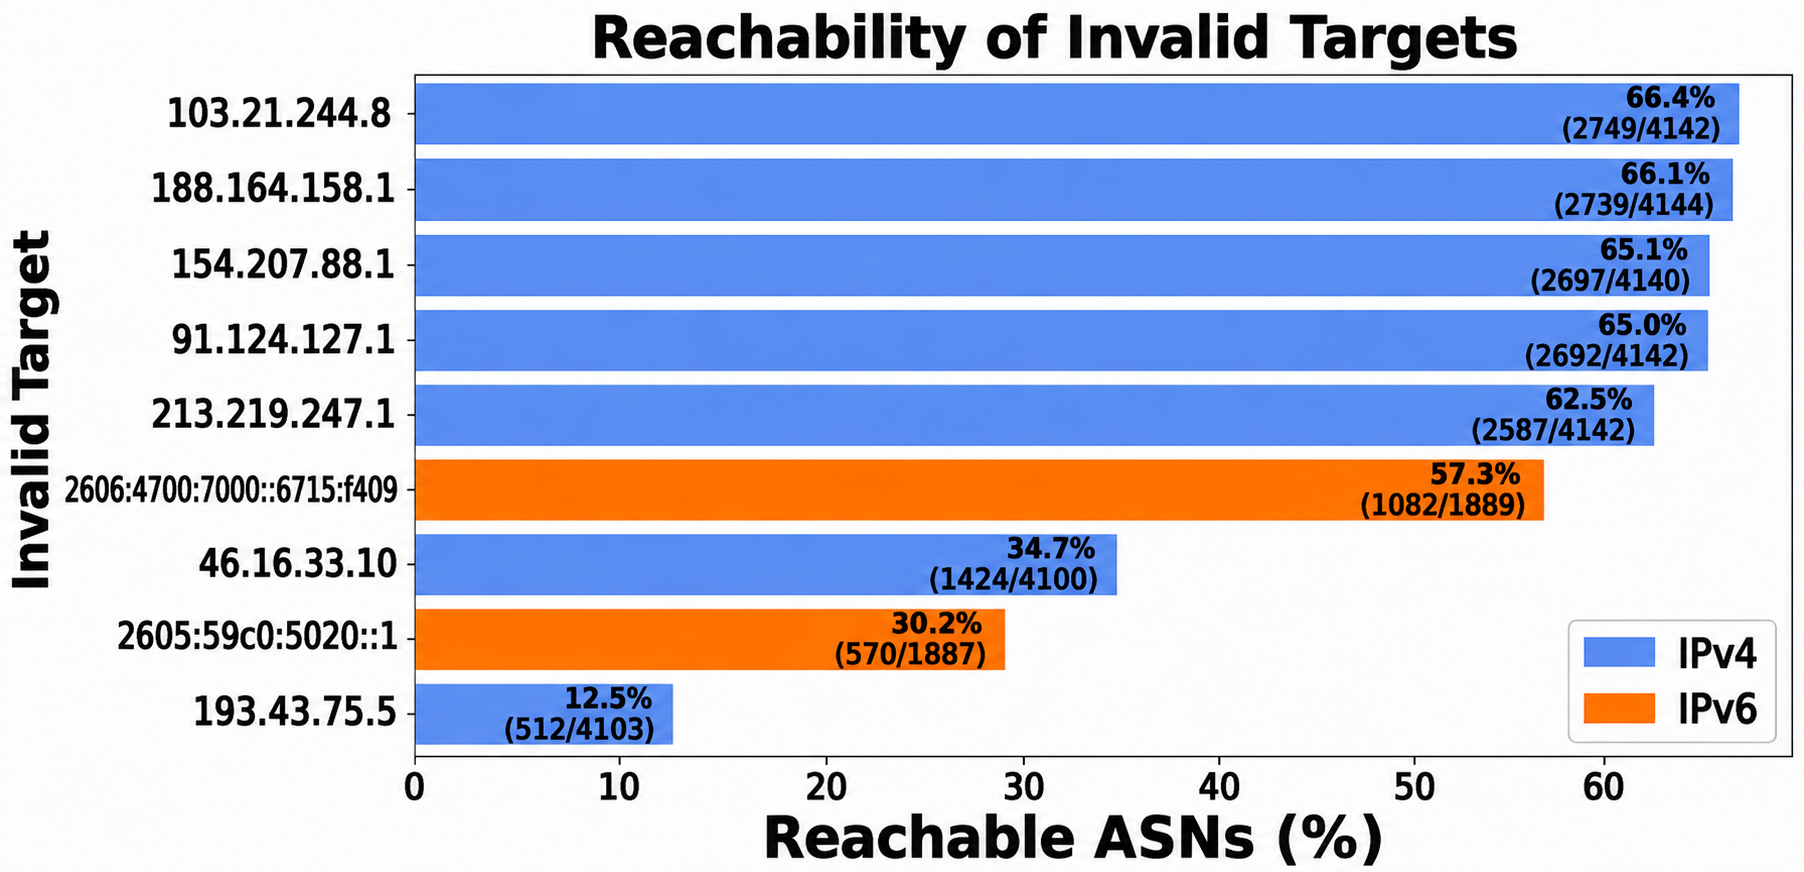
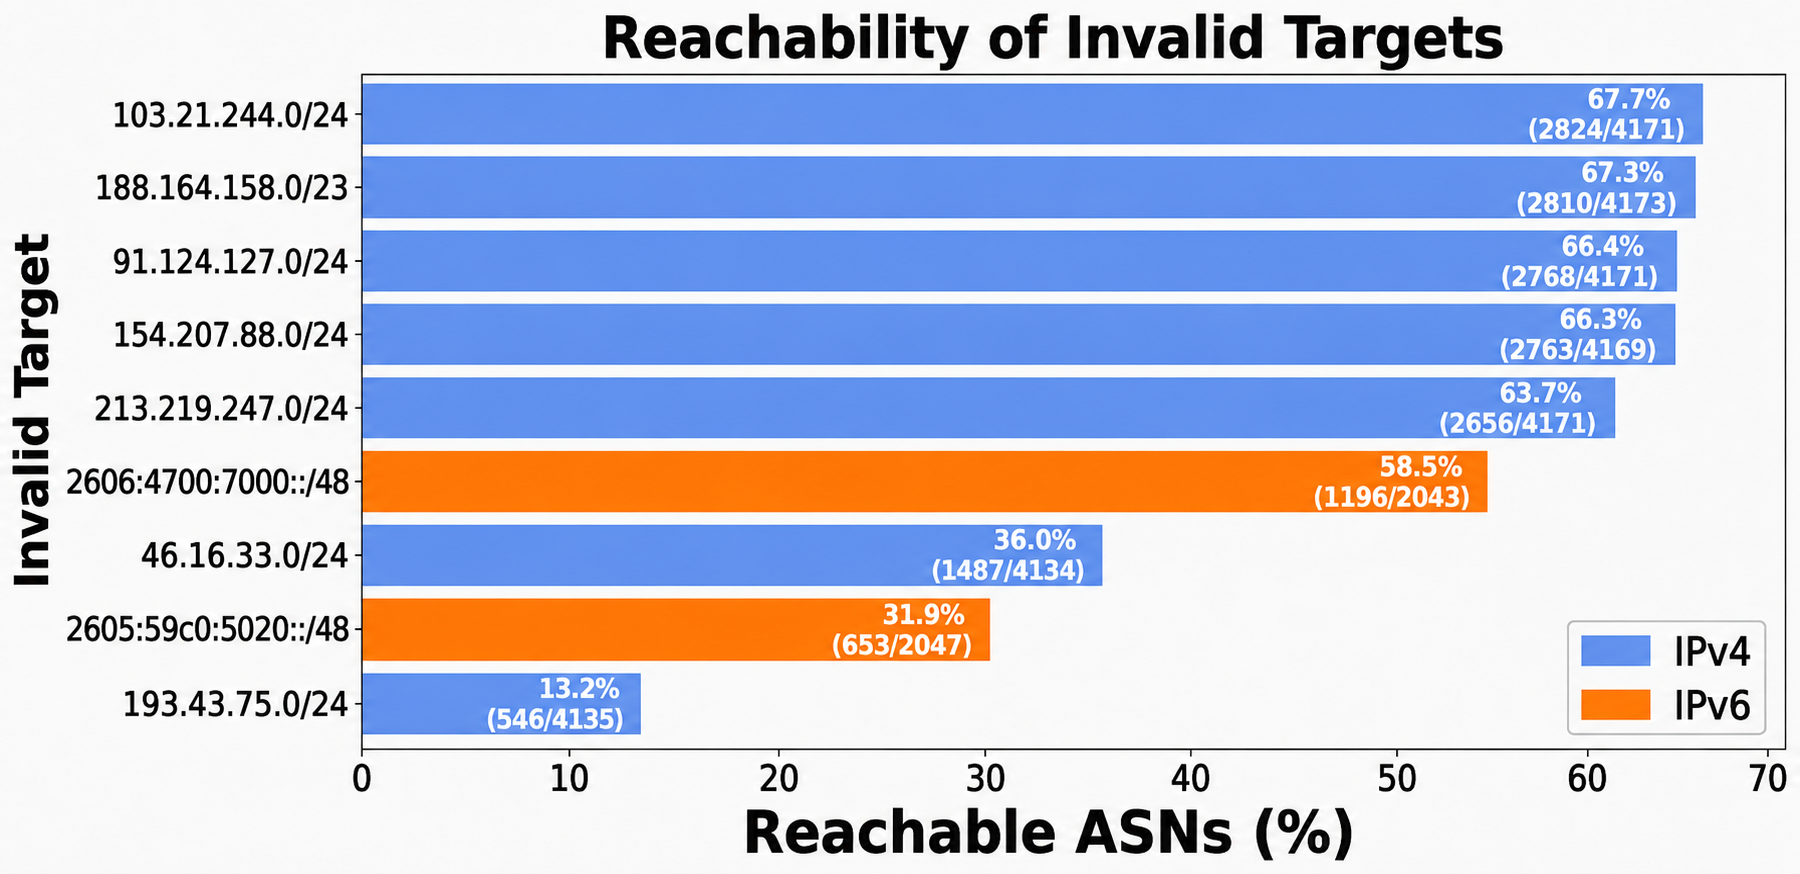
paper

Changed region(s): [[0.0, 0.0, 0.9956, 0.9908]]

diff --git a/hotnets26/hotnets26.tex b/hotnets26/hotnets26.tex
@@ -71,17 +71,17 @@ We define a \emph{measurement-aware network} as a network that can recognize mea
 
 Measurement-aware behavior introduces a new source of bias into Internet observatories by making the measurement process itself part of the system being optimized against. As a result, observed behavior may reflect a network's response to the measurement infrastructure rather than the underlying property the measurement seeks to characterize.
 
-\subsection{Threat Model}
+\subsection{Strategic Behavior Model}
 
-We consider an adversary that is a network operator (or Autonomous System) seeking to influence measurements targeting its network.
+We consider a network operator (or Autonomous System) seeking to influence measurements targeting its network in order to obtain favorable outcomes in reputation systems, compliance frameworks, or public observatories.
 
-\textbf{Adversary knowledge.} The adversary has access only to information that is publicly available or externally observable, including measurement infrastructure addresses, probe locations, published methodologies, and traffic characteristics associated with measurement campaigns. No privileged access to measurement platforms or researchers' systems is assumed.
+\textbf{Operator knowledge.} The operator has access only to information that is publicly available or externally observable, including measurement infrastructure addresses, probe locations, published methodologies, and traffic characteristics associated with measurement campaigns. No privileged access to measurement platforms or researchers' systems is assumed.
 
-\textbf{Adversary capabilities.} The adversary can distinguish measurement traffic from ordinary traffic and apply different policies to the two classes. Such policies may include selectively filtering routes, modifying forwarding behavior, prioritizing traffic, or altering reachability outcomes.
+\textbf{Operator capabilities.} The operator can distinguish measurement traffic from ordinary traffic and apply different policies to the two classes. Such policies may include selectively filtering routes, modifying forwarding behavior, prioritizing traffic, or altering reachability outcomes.
 
-\textbf{Adversary goal.} The adversary aims to obtain favorable measurement results without uniformly deploying the corresponding mechanisms throughout its network. To achieve this objective, it selectively applies the desired behavior only to traffic identified as belonging to a measurement campaign, causing the observatory to infer properties that do not necessarily reflect normal network operation.
+\textbf{Operator objective.} The operator aims to obtain favorable measurement results without uniformly deploying the corresponding mechanisms throughout its network. To achieve this objective, it selectively applies the desired behavior only to traffic identified as belonging to a measurement campaign, causing the observatory to infer properties that do not necessarily reflect normal network operation.
 
-This threat model requires neither insider knowledge nor specialized capabilities. Identifying traffic classes and applying differentiated policies are common operational practices in modern networks, making measurement-aware behavior feasible using existing mechanisms.
+This model requires neither insider knowledge nor specialized capabilities. Identifying traffic classes and applying differentiated policies are common operational practices in modern networks, making measurement-aware behavior feasible using existing mechanisms.
 
 \begin{figure*}[t]
 \centering
@@ -113,7 +113,7 @@ The specific realization of public and shadow targets depends on the measurement
 \begin{figure}[t]
 \centering
 \includegraphics[width=\linewidth]{./figures/reachability.png}
-\caption{Reachability of RPKI-invalid test prefixes from unique source ASes. Reachability varies substantially across prefixes, ranging from 12\% to 66\%. The large differences in coverage motivate the need for careful target selection when designing ROV measurements and selecting public and shadow targets.}
+\caption{Reachability of RPKI-invalid test prefixes from unique source ASes. Reachability varies substantially across prefixes, ranging from 13\% to 67\%. The large differences in coverage motivate the need for careful target selection when designing ROV measurements and selecting public and shadow targets.}
 \label{fig:invalid_prefix_visibility}
 \end{figure}
 
@@ -127,7 +127,7 @@ Recent systems such as RScope ~\cite{rscope} have substantially improved the acc
 
 ROV therefore provides a natural case study for measurement awareness. A network seeking favorable ROV scores could selectively filter well-known invalid prefixes while continuing to accept equivalent invalid routes that are not publicly associated with measurement campaigns. Existing observatories would interpret such behavior as evidence of ROV deployment despite the absence of uniform filtering policies.
 
-To investigate this possibility, we compare observations obtained using publicly known invalid prefixes with observations obtained using equivalent shadow targets. Figure~\ref{fig} shows the fraction of source ASes that can reach each candidate invalid prefix. Reachability varies substantially across targets, ranging from approximately 12\% to 66\% of source ASes. This variability highlights an additional challenge for ROV measurements: different invalid prefixes may expose different portions of the Internet, making measurement outcomes sensitive to the choice of target itself.
+To investigate this possibility, we compare observations obtained using publicly known invalid prefixes with observations obtained using equivalent shadow targets. Figure~\ref{fig} shows the fraction of source ASes that can reach each candidate invalid prefix. Reachability varies substantially across targets, ranging from approximately 13\% to 67\% of source ASes. This variability highlights an additional challenge for ROV measurements: different invalid prefixes may expose different portions of the Internet, making measurement outcomes sensitive to the choice of target itself.
 
 
 \begin{figure}[t]
@@ -194,25 +194,29 @@ Our measurement-aware analysis focuses on the high-reachability category. Public
 
 \subsection{Detecting Measurement-Aware ROV Deployment}
 
-We compare behavior toward publicly known ROV measurement targets and a set of shadow RPKI-invalid prefixes that are not publicly associated with any measurement platform.
+We compare routing behavior toward publicly known ROV measurement targets and a set of shadow RPKI-invalid prefixes that are not publicly associated with any measurement platform.
 
-Measurements are performed using RIPE Atlas traceroutes toward both target classes. Traceroute interfaces are mapped to ASes using Prefix2Org ~\cite{prefix2org} datasets and supplemented with PeeringDB and PCH ~\cite{peeringdb,pch} information to account for IXP traversals.
+Measurements are performed using RIPE Atlas traceroutes toward both target classes from 13,217 probes distributed across approximately 4,200 ASes over a period of 14 days. Traceroute interfaces are mapped to ASes using Prefix2Org~\cite{prefix2org} datasets and supplemented with PeeringDB and PCH~\cite{peeringdb,pch} information to account for IXP traversals.
 
 We classify an AS as exhibiting behavior consistent with measurement awareness if:
 
 \begin{enumerate}
 \item traffic toward the public invalid target is filtered;
-\item all shadow invalid targets remain reachable; and
-\item the AS path observed toward the shadow targets is consistent with the path observed toward the corresponding valid targets.
+\item equivalent shadow invalid targets remain reachable; and
+\item the AS path observed toward shadow targets is consistent with that of the corresponding valid announcements.
 \end{enumerate}
 
-Because such behavior is likely implemented at individual routers or points of presence rather than uniformly across an AS, different RIPE Atlas probes within the same network may observe different outcomes. We therefore distinguish between \emph{strictly measurement-aware} ASes, where all probes within the AS exhibit consistent behavior, and \emph{partially measurement-aware} ASes, where the observed behavior varies across locations within the network.
+To reduce the impact of transient routing changes and isolated configuration artifacts, we only consider ASes for which this behavior is independently observed from at least two RIPE Atlas probes within the network.
 
-Under normal ROV deployment, invalid routes should be treated consistently regardless of whether they are associated with a measurement platform. Consequently, an AS that rejects only publicly known invalid prefixes while continuing to accept equivalent shadow prefixes exhibits behavior that is difficult to explain through ordinary ROV policies alone and is instead consistent with measurement awareness.
+Because routing policies may be implemented at individual routers or points of presence rather than uniformly across an AS, different probes within the same network may observe different outcomes. We therefore distinguish between strictly measurement-aware ASes, where all observing probes exhibit the same behavior, and partially measurement-aware ASes, where observations differ across vantage points.
 
-Our measurements identify X strictly measurement-aware ASes and an additional Y partially measurement-aware ASes. We further compare these networks against publicly available ROV observatories. According to APNIC measurements, the average ROV score of strictly and partially measurement-aware ASes is X\% and Y\%, respectively, while RoVista reports average scores of X\% and Y\%.
+Under conventional ROV deployment, invalid routes should be treated consistently regardless of whether they originate from a public measurement platform. Consequently, an AS that rejects publicly known invalid announcements while continuing to accept equivalent shadow invalids exhibits behavior that is difficult to reconcile with ordinary ROV policies and is instead consistent with measurement-aware deployment.
 
-These observations suggest that measurement-aware behavior may influence the outputs of public compliance and reputation frameworks. Networks exhibiting such behavior may appear more secure to customers and peers than their actual deployment practices would suggest, potentially affecting upstream selection and trust decisions throughout the ecosystem.
+Our measurements identify 14 measurement-consistent ASes and an additional 2 measurement-inconsistent ASes. These networks span all five RIR regions and include customer cones derived from CAIDA AS Rank~\cite{caida_asrank} ranging from 0 to 161 downstream ASes, suggesting that measurement-aware behavior is not confined to any particular geography or operator class.
+
+Despite accepting shadow invalid announcements, many of these networks receive high ROV deployment scores from public observatories. This suggests that measurement-aware behavior can influence the outputs of widely used compliance and reputation frameworks, potentially causing networks to appear more secure than their routing policies toward ordinary invalid announcements would indicate.
+
+More broadly, our findings raise the possibility that current approaches for measuring ROV deployment may systematically overestimate adoption when operators can distinguish measurement traffic from ordinary routing behavior.
 
 \section{Discussion}
 
@@ -228,21 +232,25 @@ Performance measurements may also be vulnerable. Traffic originating from known 
 
 Taken together, these examples suggest that measurement awareness may represent a general challenge for Internet observatories whenever measurement infrastructures are stable, identifiable, and associated with incentives for favorable outcomes.
 
-\subsection{Mitigations}
+\subsection{Measurement-Aware Detection and Mitigation}
 
-Mitigating measurement-aware behavior is challenging because the properties that make Internet observatories valuable, openness, reproducibility, and long-term stability, also make them easier to identify. Consequently, eliminating measurement awareness entirely may be incompatible with the goals of Internet measurement itself.
+Detecting measurement-aware behavior is challenging because observatories typically observe only the outcomes of measurements and not the decision processes that produced them. Consequently, measurement-aware networks cannot be identified through direct inspection and must instead be inferred from inconsistencies in observed behavior.
 
-One possible approach is to increase the diversity and unpredictability of measurement infrastructures. Rotating measurement targets, expanding the set of vantage points, and avoiding long-term dependence on a small number of publicly known destinations can increase the difficulty of identifying measurement activity.
+Our approach treats the Measurement-Aware AS (MA-AS) illustrated in Figure~\ref{fig} as a black box whose behavior is inferred through differential measurements. Rather than attempting to determine how a network recognizes measurement traffic, we focus on identifying discrepancies that are difficult to explain under uniform policy deployment.
 
-A complementary approach is to incorporate hidden or ephemeral measurement targets alongside publicly documented infrastructures. Comparing observations obtained from public and undisclosed targets, as in our paired-target methodology, can help identify discrepancies that may indicate strategic behavior.
+To achieve this objective, we extend the paired-target methodology with diversity on both the source and destination sides of the measurement infrastructure. On the destination side, publicly known measurement targets are complemented with undisclosed shadow targets that provide equivalent measurement functionality while remaining unknown to the measured network. On the source side, measurements originating from publicly recognizable infrastructures, such as RIPE Atlas probes, are complemented with measurements originating from shadow probes that are not publicly associated with measurement campaigns.
 
-Finally, observatories may benefit from explicitly modeling measurement awareness as a potential source of bias when interpreting results. Rather than treating measurements as direct observations of network properties, future studies may need to account for the possibility that measured networks adapt their behavior in response to the measurement process itself.
+The resulting framework produces two independent sources of evidence regarding measurement-aware behavior. The first, denoted as $\Delta_{source}$, captures discrepancies between observations obtained from public and shadow probes toward identical destinations. The second, denoted as $\Delta_{target}$, captures discrepancies between observations obtained toward public and shadow targets using identical sources.
 
-\subsection{Future works}
+Under ordinary operation, a network applying a uniform policy should produce comparable observations regardless of the visibility of the probe or destination involved in the measurement. Significant differences in either $\Delta_{source}$ or $\Delta_{target}$ therefore suggest that the measured network is adapting its behavior in response to identifiable measurement infrastructure rather than applying a consistent operational policy.
 
-Our study focuses on ROV as a representative case study, but measurement-aware behavior may affect a much broader range of Internet observatories. An important direction for future work is to evaluate the prevalence of such behavior in other domains, such as SAV, censorship, and network performance studies.
+These two signals are combined within a single inference engine responsible for identifying behavior consistent with measurement awareness. By jointly considering source-side and destination-side discrepancies, the framework can identify networks that selectively alter routing policies, filtering decisions, or ROV enforcement only when interacting with publicly recognizable measurement infrastructures.
 
-Another open challenge is the design of measurement infrastructures that preserve reproducibility and transparency while reducing their susceptibility to strategic manipulation. Developing methodologies that can detect, quantify, and mitigate measurement-aware behavior remains an important research problem for the Internet measurement community.
+While this approach cannot eliminate measurement awareness entirely, it substantially increases the cost of strategic manipulation and reduces the incentives for selectively optimizing behavior toward Internet observatories. Rather than assuming that measurements directly reflect network properties, future observatories may need to explicitly account for the possibility that measured networks adapt their behavior in response to being observed.
+
+\subsection{Ethical Considerations}
+
+Our measurements rely exclusively on standard RIPE Atlas traceroutes and publicly observable BGP information. The experiments do not collect user data, inspect payload contents, or interfere with production traffic. Shadow targets are functionally equivalent to public ROV targets and do not alter routing decisions beyond the behavior already induced by existing ROV measurement methodologies. The study aims solely to characterize measurement bias and not to identify or publicly attribute malicious behavior to individual operators.
 
 \section{Conclusion}
 